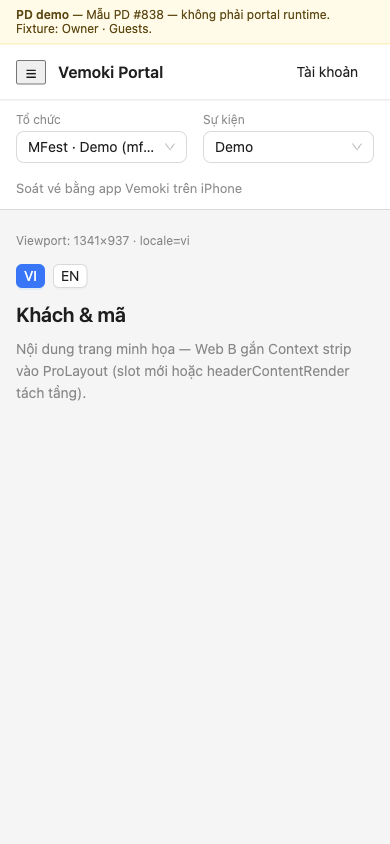
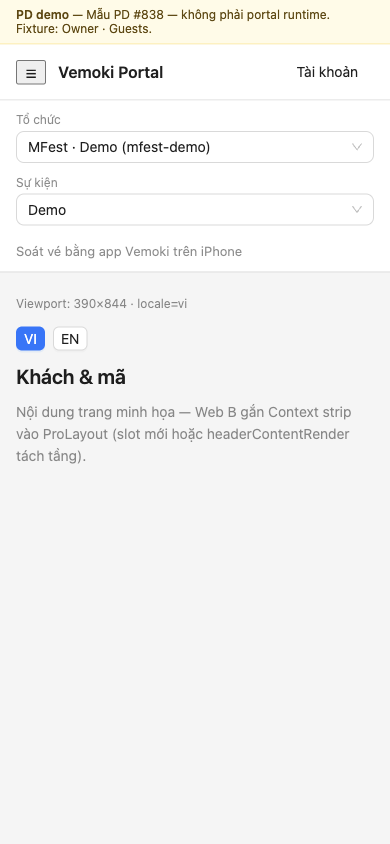
docs(portal): PD #838 batch 1/2 — stack mobile, viewport evidence
Sửa specimen flex stack <768, viewport label reactive, capture viewport-first + probe JSON; copy accepted≠delivered VI; thêm en-390. Replaces c9598be evidence.

Changed region(s): [[0.0308, 0.2156, 0.8923, 0.5545], [0.3692, 0.1232, 0.6462, 0.1848], [0.5231, 0.2773, 0.6154, 0.3081]]

diff --git a/docs/design/portal-audit-fix-2026-10-23/prototype/header-specimen.html b/docs/design/portal-audit-fix-2026-10-23/prototype/header-specimen.html
@@ -76,7 +76,8 @@
       flex-direction: column;
       gap: 4px;
       min-width: 0;
-      flex: 1 1 160px;
+      flex: 1 1 100%;
+      width: 100%;
       max-width: 100%;
     }
     .field label {
@@ -102,7 +103,11 @@
         max-width: 280px;
       }
       .context-strip .row { flex-wrap: nowrap; }
-      .field { flex: 0 1 240px; max-width: 280px; }
+      .field {
+        flex: 0 1 240px;
+        width: auto;
+        max-width: 280px;
+      }
     }
     @media (min-width: 1024px) {
       .field { flex: 0 1 260px; }
@@ -125,7 +130,7 @@
   <div id="root"></div>
   <script>
     const { ConfigProvider, Select, Button, Dropdown, Space, Typography, theme } = antd;
-    const { useState, useMemo } = React;
+    const { useState, useMemo, useEffect } = React;
 
     const COPY = {
       vi: {
@@ -184,10 +189,19 @@
       const longNames = params.get('long') === '1';
       const showScan = params.get('scan') !== '0';
       const [locale, setLocale] = useState(localeParam);
+      const [dims, setDims] = useState({ w: 0, h: 0 });
+      useEffect(() => {
+        const update = () =>
+          setDims({ w: window.innerWidth, h: window.innerHeight });
+        update();
+        window.addEventListener('resize', update);
+        return () => window.removeEventListener('resize', update);
+      }, []);
       const t = COPY[locale];
       const tenants = TENANTS[locale];
       const events = EVENTS[locale];
-      const vw = window.innerWidth + '×' + window.innerHeight;
+      const vw =
+        dims.w > 0 ? dims.w + '×' + dims.h : '…';
 
       const accountItems = useMemo(() => ({
         items: [{ key: 'logout', label: t.logout }],

diff --git a/docs/design/portal-audit-fix-2026-10-23/prototype/probe-pa01-header.js b/docs/design/portal-audit-fix-2026-10-23/prototype/probe-pa01-header.js
@@ -1,0 +1,43 @@
+// Probe PA-01 specimen: viewport, media query, field stack geometry.
+(() => {
+  const meta = document.querySelector('.demo-meta');
+  const tenant = document.querySelector('[data-testid="tenant-switcher"]');
+  const event = document.querySelector('[data-testid="event-switcher"]');
+  const strip = document.querySelector('[data-testid="portal-context-strip"]');
+  const tBox = tenant?.getBoundingClientRect();
+  const eBox = event?.getBoundingClientRect();
+  const stacked =
+    tBox && eBox
+      ? Math.round(eBox.top) >= Math.round(tBox.bottom) - 2
+      : null;
+  const sideBySide =
+    tBox && eBox
+      ? Math.round(eBox.top) === Math.round(tBox.top) &&
+        Math.round(eBox.left) > Math.round(tBox.left)
+      : null;
+  return {
+    viewport: { w: window.innerWidth, h: window.innerHeight },
+    devicePixelRatio: window.devicePixelRatio,
+    mediaMin768: window.matchMedia('(min-width: 768px)').matches,
+    metaText: meta?.innerText?.trim() ?? null,
+    stripWidth: strip ? Math.round(strip.getBoundingClientRect().width) : null,
+    tenant: tBox
+      ? {
+          top: Math.round(tBox.top),
+          left: Math.round(tBox.left),
+          width: Math.round(tBox.width),
+          height: Math.round(tBox.height),
+        }
+      : null,
+    event: eBox
+      ? {
+          top: Math.round(eBox.top),
+          left: Math.round(eBox.left),
+          width: Math.round(eBox.width),
+          height: Math.round(eBox.height),
+        }
+      : null,
+    layout: { stacked, sideBySide },
+    expectBelow768Stack: window.innerWidth < 768 ? stacked === true : null,
+  };
+})();

diff --git a/docs/design/portal-audit-fix-2026-10-23/README.md b/docs/design/portal-audit-fix-2026-10-23/README.md
@@ -10,8 +10,21 @@
 | Visual budget | **Không** — token AntD staff [`apps/portal/src/theme/vemoki.ts`](../../../apps/portal/src/theme/vemoki.ts), O18 ProLayout |
 | Xác nhận | User đã duyệt PA-01–06 + plan 23/10/2026 |
 | Consumer | Web B (PA-01 header) · Web A (PA-02–03 copy, dùng [copy-guests-pa02-pa03.md](./copy-guests-pa02-pa03.md)) |
+| PD handoff SHA | `c9598be` → commit batch 1/2 trên cùng branch (xem `git log -1` / worker_done) |
 
 **Mẫu trực quan trong thư mục này là specimen PD (banner vàng «PD demo»), không chứng minh runtime authenticated.**
+
+### Evidence batch sửa 1/2 (#838)
+
+| Kiểm tra | Kết quả |
+| --- | --- |
+| Mobile stack &lt;768px | CSS `flex: 1 1 100%` + probe `layout.stacked: true` @ 390px (vi, vi-long, en) |
+| Viewport label | `useEffect` + `resize`; chụp: `orca tab create --url` → `set viewport W H` → probe `metaText` khớp W×H |
+| Desktop row | probe `layout.sideBySide: true` @ 1024 / 1440 |
+| Ảnh PNG | `sips` khớp tên file; `ui-evidence-check` trên `assets/header-pa01-*.png` — không trùng hash |
+| Probe JSON | `assets/evidence/header-pa01-*.json` (viewport, mediaMin768, bounding boxes tenant/event) |
+
+Capture: [prototype/capture-screenshots.sh](./prototype/capture-screenshots.sh) + [probe-pa01-header.js](./prototype/probe-pa01-header.js).
 
 ## Artifact
 
@@ -20,7 +33,8 @@
 | [copy-guests-pa02-pa03.md](./copy-guests-pa02-pa03.md) | Bảng copy VI/EN Guests Import / Pending / Notifications / Export + PA-03 scope filter |
 | [prototype/header-specimen.html](./prototype/header-specimen.html) | HTML/React+AntD CDN — two-tier chrome |
 | [prototype/capture-screenshots.sh](./prototype/capture-screenshots.sh) | Orca browser chụp ảnh vào `assets/` |
-| [assets/](./assets/) | Ảnh 390 / 1024 / 1440 (sau chạy script) |
+| [assets/](./assets/) | Ảnh 390 / 1024 / 1440 |
+| [assets/evidence/](./assets/evidence/) | Probe JSON đo viewport/media/layout mỗi ảnh |
 
 ## PA-01 — Quyết định header (one pattern)
 
@@ -97,7 +111,8 @@ portal-pro-layout.tsx
 | File | Viewport | Locale / fixture |
 | --- | --- | --- |
 | `assets/header-pa01-vi-390x844.png` | 390×844 | VI |
-| `assets/header-pa01-vi-long-390x844.png` | 390×844 | VI, tên dài |
+| `assets/header-pa01-vi-long-390x844.png` | 390×844 | VI, tên dài (stack) |
+| `assets/header-pa01-en-390x844.png` | 390×844 | EN |
 | `assets/header-pa01-vi-1024x900.png` | 1024×900 | VI |
 | `assets/header-pa01-vi-1440x1000.png` | 1440×1000 | VI, tên dài |
 | `assets/header-pa01-en-1440x1000.png` | 1440×1000 | EN, tên dài |
@@ -111,7 +126,7 @@ Chi tiết key và câu chốt: [copy-guests-pa02-pa03.md](./copy-guests-pa02-pa
 Tóm tắt:
 
 - Loại jargon luồng chính: G-E1, `commit idempotent`, `stream authenticated`, `poll`, permission string trong câu user-facing.
-- Giữ ý nghĩa trạng thái (accepted/delivered, unknown, READY semantics trong copy vận hành).
+- Giữ ý nghĩa trạng thái (accepted/delivered, unknown, READY semantics trong copy vận hành). VI: *tiếp nhận gửi / nhà cung cấp tiếp nhận* ≠ khách đã nhận email — không dùng «đã gửi» thay *delivered*.
 - Filter nguồn/loại vé **chỉ** tab Import (PA-03).
 
 ## Hướng dẫn triển khai

diff --git a/docs/design/portal-audit-fix-2026-10-23/copy-guests-pa02-pa03.md b/docs/design/portal-audit-fix-2026-10-23/copy-guests-pa02-pa03.md
@@ -7,12 +7,12 @@ Bảng dưới dành cho Web A (`messages.ts` + panels). **Giữ** phân biệt 
 | Tab Import | Nhập từ CSV | Import from CSV | Tiêu đề tab ngắn; panel title giữ `ops.import.panelTitle` |
 | `ops.import.panelTitle` | Nhập khách và mã từ CSV | Import guests and codes from CSV | OK giữ |
 | `ops.import.panelDescription` | Tải file CSV → xem trước (không giữ suất) → ghi nhận. Báo cáo lỗi tải riêng khi đăng nhập, không dùng link tạm. | Upload CSV → preview (does not hold quota) → commit. Error report downloads separately when signed in; no temporary public link. | Bỏ *idempotent*, *stream authenticated*, *poll* |
-| `ops.import.catalogHint` | Chọn nguồn và loại vé từ danh mục sự kiện (không gõ mã tay). Phiên bản mapping: | Pick source and ticket type from the event catalog (do not type IDs manually). Mapping revision: | Bỏ `sourceId` / `ticketTypeId` trên luồng chính |
+| `ops.import.catalogHint` | Chọn nguồn và loại vé từ danh mục sự kiện (không gõ mã tay). | Pick source and ticket type from the event catalog (do not type IDs manually). | Bỏ mapping revision / ID kỹ thuật trên luồng chính |
 | `ops.import.dispatchPreviewNotice` | Xem trước gửi thử không giữ suất và không gửi email. | Dispatch preview does not hold quota and does not send email. | |
 | Tab Pending | `guests.pendingTitle` Chờ duyệt | Pending approval | |
-| `guests.h_1tkjxlx` (alert Guests) | Xem trước không giữ suất. Đã chấp nhận chưa đồng nghĩa đã gửi email. Chọn nguồn và loại vé từ danh mục. | Preview does not hold quota. Accepted does not mean email was delivered. Pick source and ticket type from the catalog. | |
+| `guests.h_1tkjxlx` (alert Guests) | Xem trước không giữ suất. Nhà cung cấp đã tiếp nhận chưa chứng minh khách đã nhận email. Chọn nguồn và loại vé từ danh mục. | Preview does not hold quota. Accepted by the provider does not prove the guest received email. Pick source and ticket type from the catalog. | Không dùng «đã gửi» thay *delivered* |
 | Tab Notifications | Thông báo | Notifications | `guests.h_1avy3de` |
-| `ops.notifications.listSummary` | Thông báo: {{count}} mục{{pageSuffix}}. Đã chấp nhận ≠ đã gửi. | Notifications: {{count}} item{{pageSuffix}}. Accepted ≠ delivered. | Giữ ý nghĩa, bỏ ALL CAPS nếu có |
+| `ops.notifications.listSummary` | Thông báo: {{count}} mục{{pageSuffix}}. Đã tiếp nhận gửi ≠ khách đã nhận email. | Notifications: {{count}} item{{pageSuffix}}. Accepted ≠ delivered. | VI: nhà cung cấp tiếp nhận ≠ delivered tới khách |
 | Tab Export — `ops.export.panelInfo` | Xuất danh sách CSV | Export guest list (CSV) | Bỏ G-E1 / recovery jargon |
 | `ops.export.panelDescription` | Tạo yêu cầu xuất → kiểm tra trạng thái → tải khi sẵn sàng. Danh sách không hiện link file trực tiếp. Kết quả chưa rõ ≠ đã thành công. | Create export → check status → download when ready. List never shows direct file links. Unknown outcome ≠ success. | |
 | `ops.export.filterHistory` | Lọc lịch sử xuất | Filter export history | |
